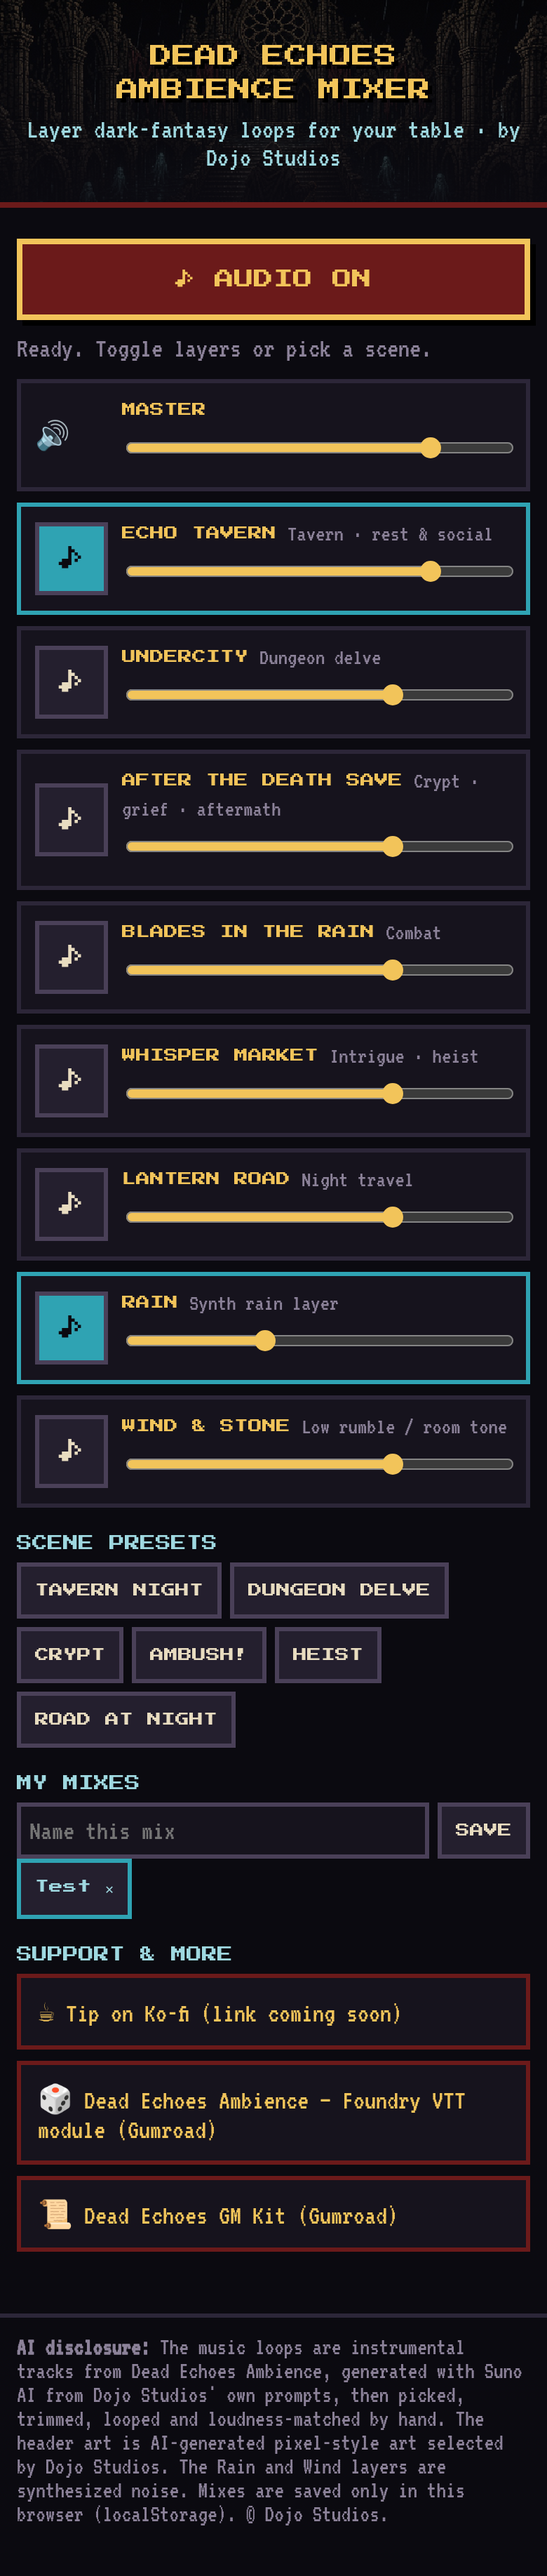
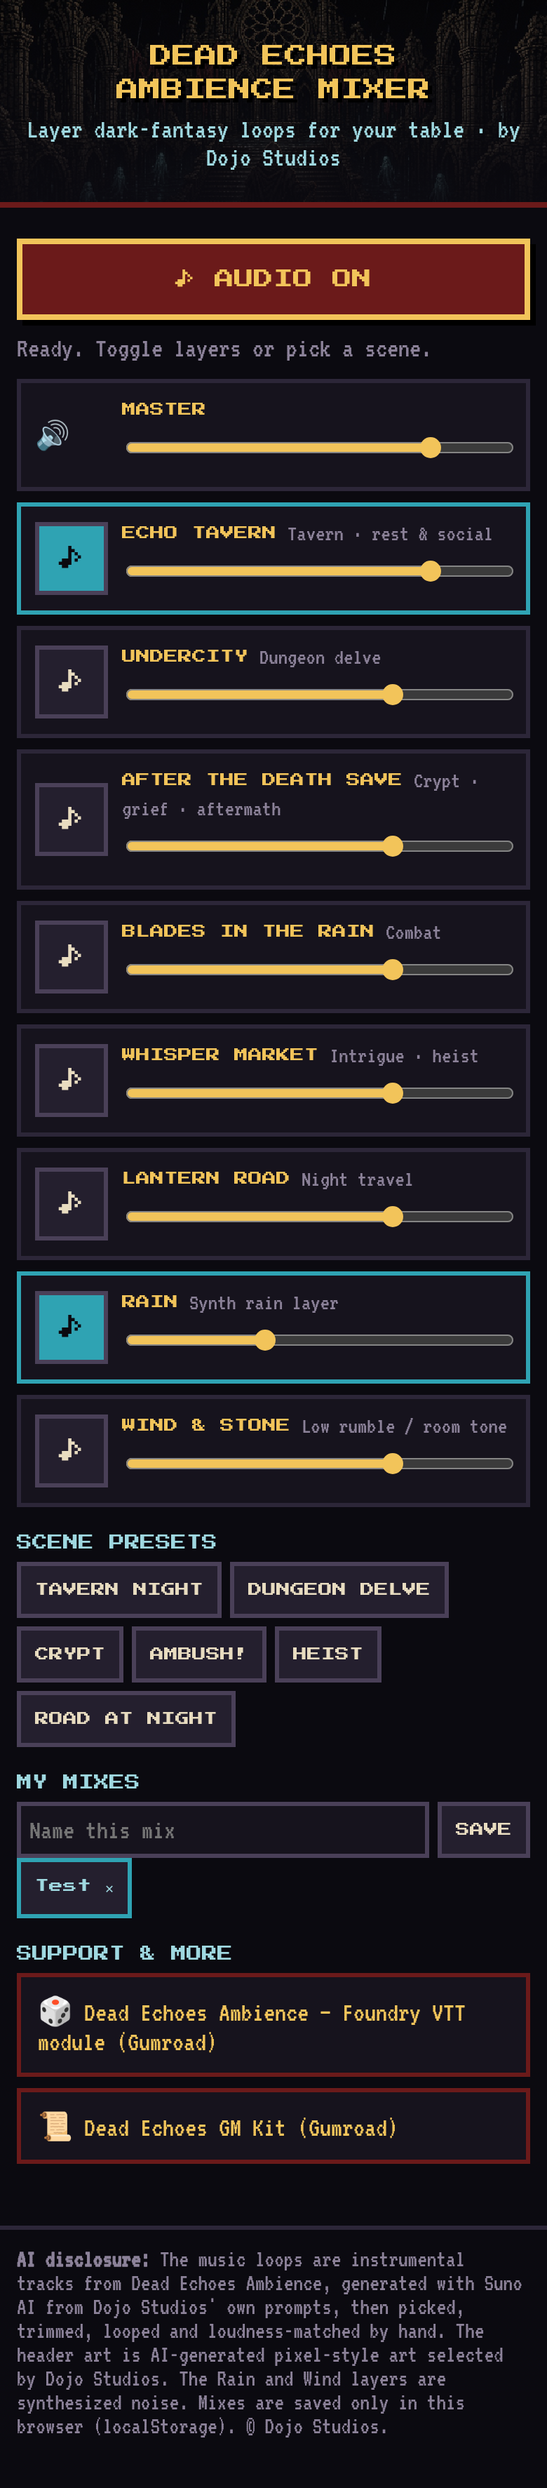
Hide Ko-fi button until URL set

Changed region(s): [[0.0, 0.0, 1.0, 0.9927], [0.9538, 0.5894, 0.9846, 0.6204]]

diff --git a/index.html b/index.html
@@ -5,7 +5,7 @@
 <link rel="icon" href="data:,">
 <style>
 @font-face{font-family:P;src:url(img/PressStart2P-Regular.ttf)}@font-face{font-family:V;src:url(img/VT323-Regular.ttf)}
-*{box-sizing:border-box}body{margin:0;background:#0b0a10;color:#e8dcc0;font:20px V,monospace;-webkit-text-size-adjust:100%}
+[hidden]{display:none!important}*{box-sizing:border-box}body{margin:0;background:#0b0a10;color:#e8dcc0;font:20px V,monospace;-webkit-text-size-adjust:100%}
 header{background:url(img/bg.png) center/cover;image-rendering:pixelated;padding:28px 16px 22px;text-align:center;border-bottom:4px solid #6b1a1a;position:relative}
 header:before{content:"";position:absolute;inset:0;background:linear-gradient(#0b0a1055,#0b0a10ee)}
 header *{position:relative}h1{font:16px/1.5 P,monospace;color:#f2c45a;margin:0 0 6px;text-shadow:3px 3px #000}
